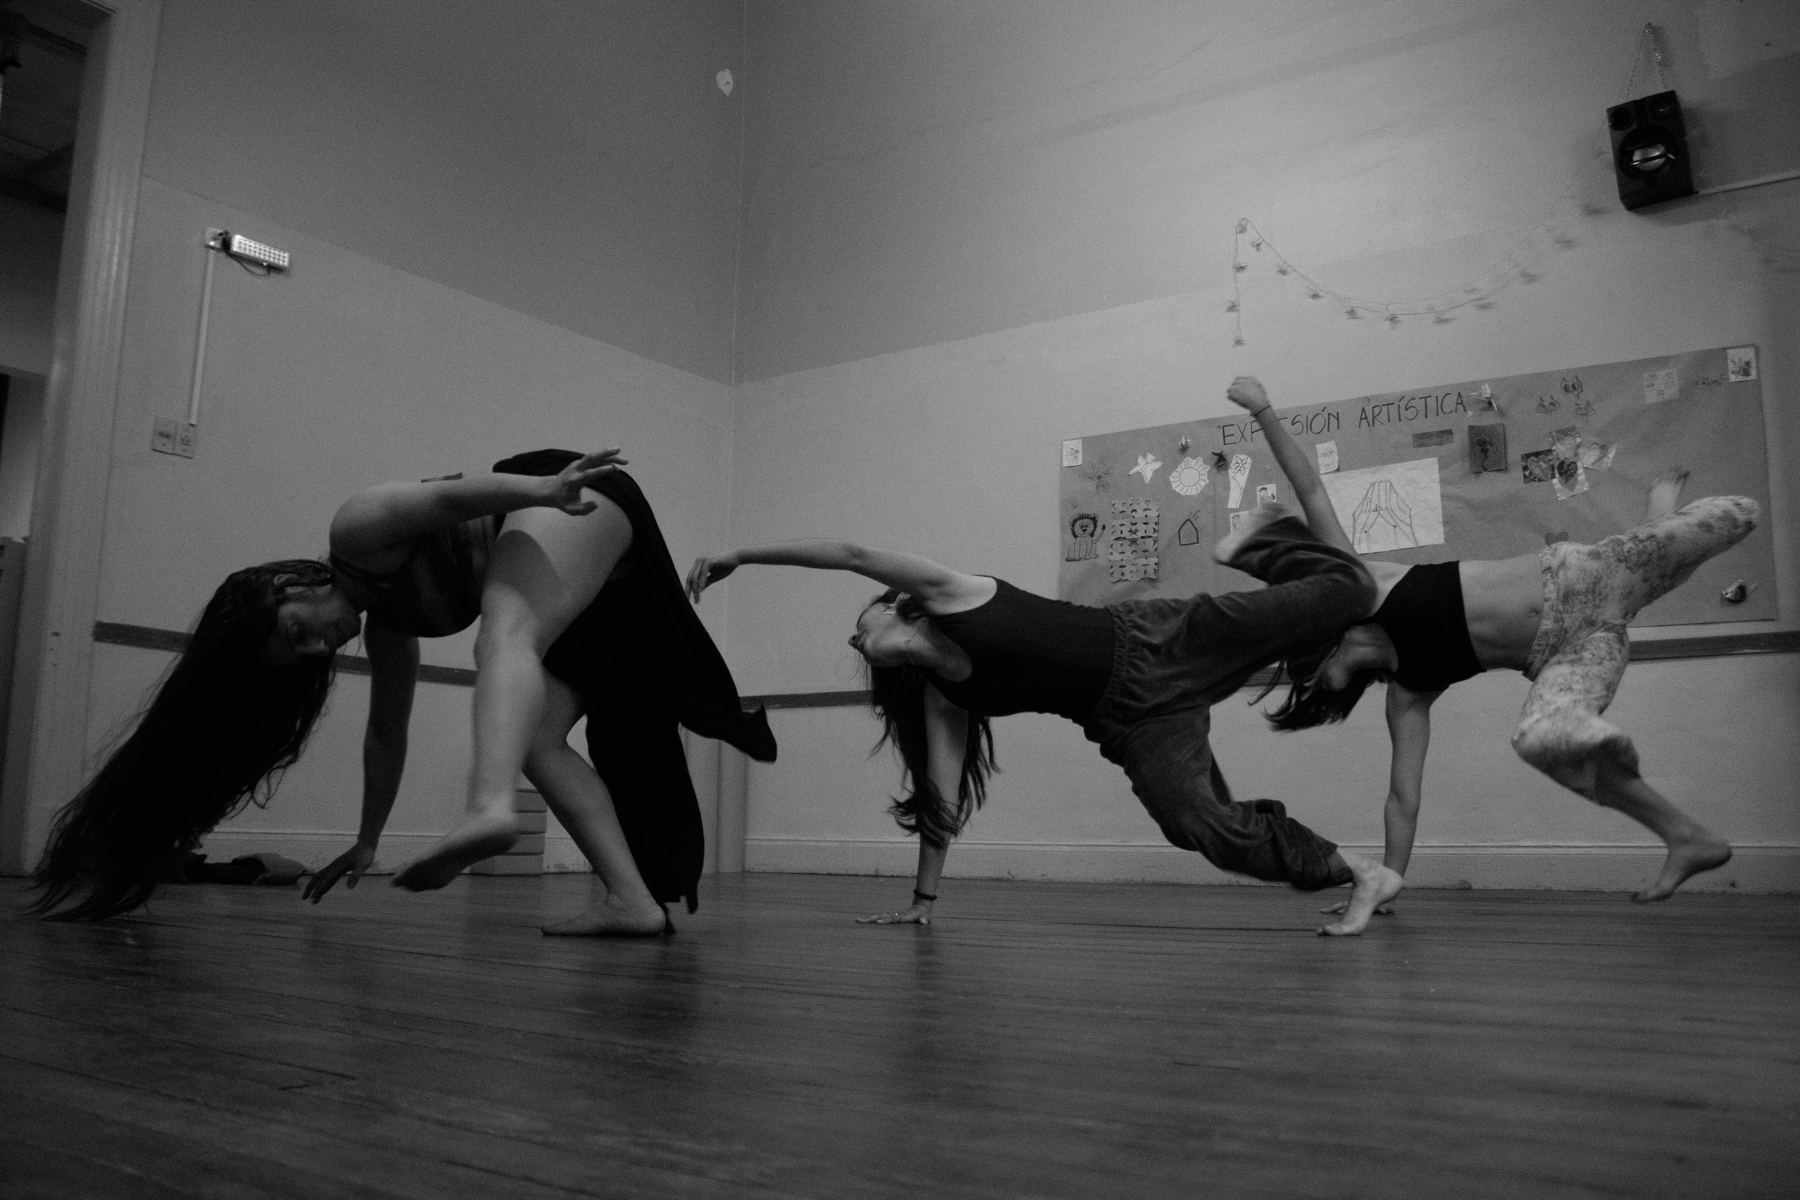
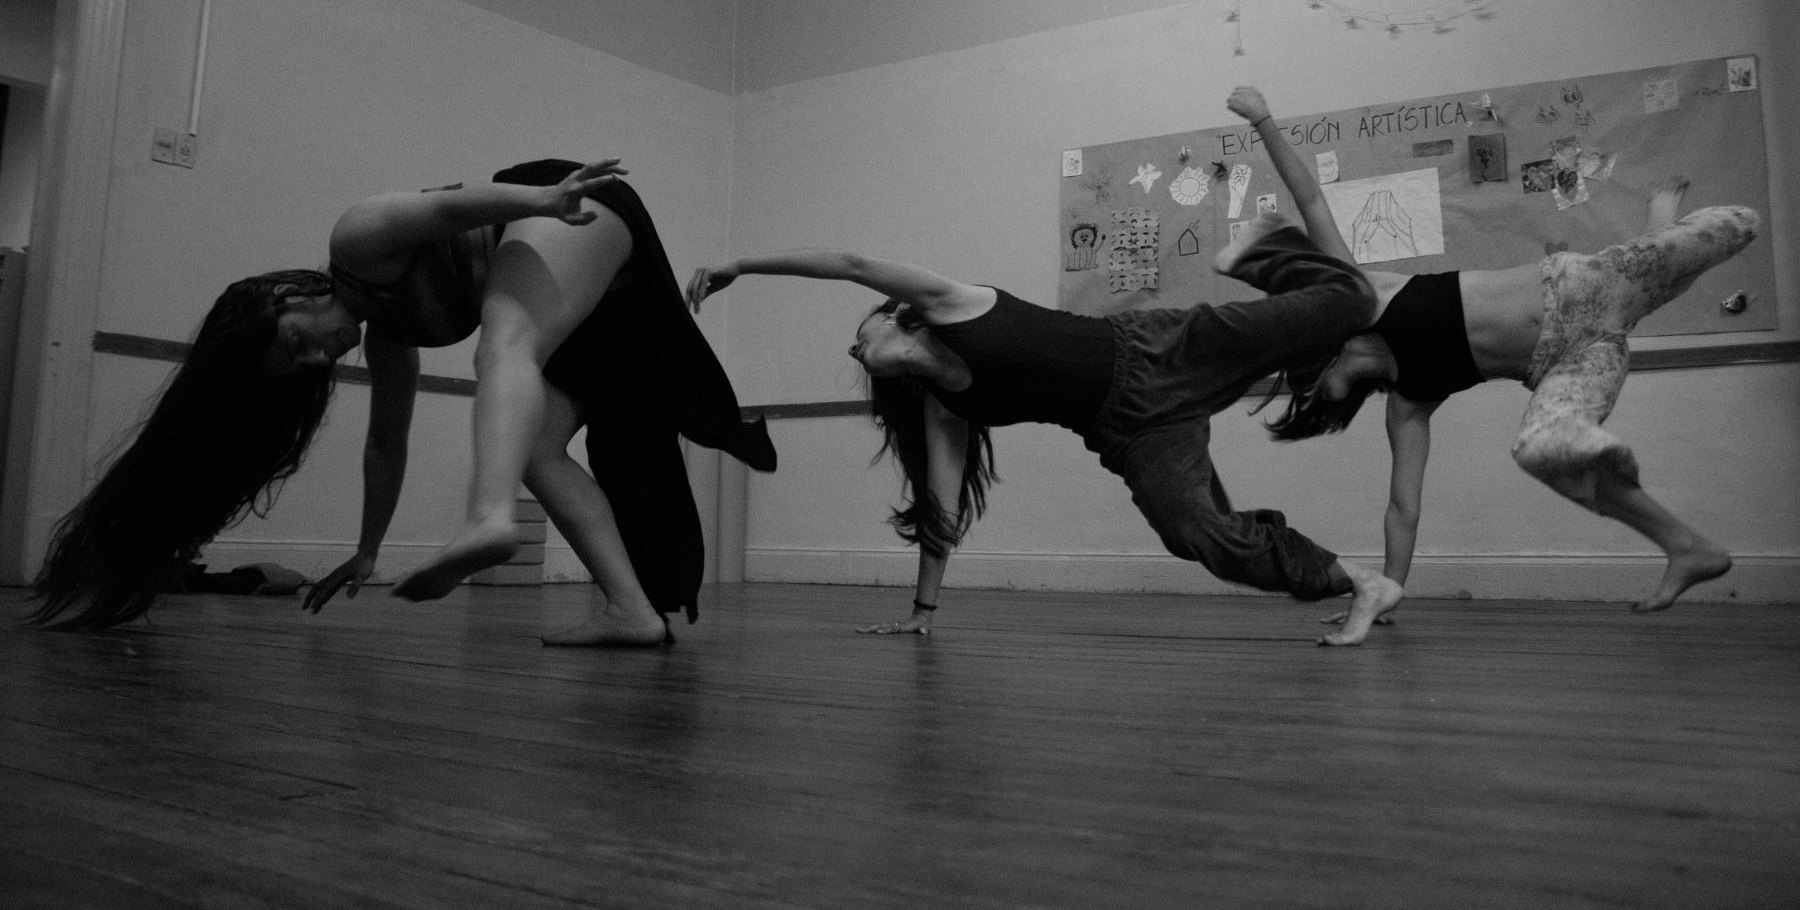
feat: update cover and practice photos, remove Danza duplicate, crop Danza wide photo

diff --git a/src/components/Hero.tsx b/src/components/Hero.tsx
@@ -3,12 +3,12 @@ import { Foto } from './Foto'
 
 const { hero } = contenido
 
-/** S1: tapa a sangre, logotipo y la invitación a recorrer. Sin botones ni contador (R7). */
+/** S1: foto a sangre, logotipo y la invitación a recorrer. Sin botones ni contador (R7). */
 export function Hero() {
-  const [tapa] = fotosDe('portada')
+  const [portada] = fotosDe('portada')
   return (
     <header className="hero">
-      <Foto foto={tapa} sizes="100vw" className="hero__foto" prioritaria />
+      <Foto foto={portada} sizes="(max-aspect-ratio: 3/2) 150vh, 100vw" className="hero__foto" prioritaria />
       <div className="hero__velo" />
       <div className="hero__arriba">
         <span>{hero.autora}</span>

diff --git a/src/components/Foto.tsx b/src/components/Foto.tsx
@@ -5,7 +5,7 @@ interface Props {
   /** Atributo `sizes` según el ancho que ocupa en pantalla. */
   sizes: string
   className?: string
-  /** Solo la tapa se carga sin esperar (§6.2). */
+  /** Solo la portada se carga sin esperar (§6.2). */
   prioritaria?: boolean
 }
 

diff --git a/src/styles/app.css b/src/styles/app.css
@@ -83,7 +83,6 @@ p {
 }
 
 .foto--ancha {
-  aspect-ratio: 3 / 2;
   margin-top: clamp(2.5rem, 6vw, 4.5rem);
 }
 

diff --git a/iterations/001-initial-site/spec.md b/iterations/001-initial-site/spec.md
@@ -47,11 +47,11 @@ botones (descarga, aporte, pedido por mail) están en el cierre (S8). El hero in
 
 | # | Sección | Contenido | Fuente |
 |---|---|---|---|
-| S1 | **Portada (hero)** | Foto de tapa a sangre · logotipo "MOVIMIENTO" (SVG) · "Libro de fotografías sobre prácticas corporales" · invitación a recorrer (R7). **Sin botones ni contador** | Foto de tapa del libro |
-| S2 | **Cita de apertura** | Te invito a sumergirte en estas páginas… | Texto definido para el sitio |
-| S3 | **I Contorsión** | Título espejado (R4), texto, cronología, foto ancha + grilla de 4 verticales | Texto: págs. 29–40 · Fotos: inéditas |
+| S1 | **Portada (hero)** | Foto inédita a sangre · logotipo "MOVIMIENTO" (SVG) · "Libro de fotografías sobre prácticas corporales" · invitación a recorrer (R7). **Sin botones ni contador** | Foto inédita |
+| S2 | **Cita de apertura** | Te invito a sumergirte en estas páginas… (fragmentos) | Pág. 7 |
+| S3 | **I Contorsión** | Título espejado (R4), texto, cronología, foto ancha + grilla de 4 verticales | Texto: págs. 29–40 · Fotos: inéditas + 1 del libro |
 | S4 | **II Acrobacia aérea** | Título espejado, texto, cronología, foto ancha + fila de 2 + grilla de 3 cuadradas | Texto: págs. 57–72 · Fotos: inéditas |
-| S5 | **III Danza** | Título espejado, texto, cronología, foto ancha + grilla de 3 cuadradas | Texto: págs. 91–102 · Fotos: 1 inédita + 3 del libro |
+| S5 | **III Danza** | Título espejado, texto, cronología, foto ancha + grilla de 3 cuadradas | Texto: págs. 91–102 · Fotos: 2 inéditas + 2 del libro |
 | S6 | **Protagonistas** | 10 retratos con nombre (D7) | Págs. 122–127 |
 | S7 | **La autora y créditos** | Retrato, bio factual, créditos, agradecimientos, memoria académica | Págs. 2, 122, 128 |
 | S7b | **Así es el libro** | 5 fotos del libro impreso (R9), sin botones | Fotos del libro impreso |
@@ -69,7 +69,7 @@ incluyen en el sitio.
 ┌──────────────────────────────┐
 │ BRISA JAZMÍN ARREGUI   2026  │
 │                              │
-│  [foto de tapa a sangre,     │
+│  [foto inédita a sangre,     │
 │   pantalla completa]         │
 │                              │
 │ MOVIMIENTO  (logotipo SVG)   │
@@ -119,7 +119,7 @@ incluyen en el sitio.
 ┌───────────────────────────────────────────────────────────┐
 │ BRISA JAZMÍN ARREGUI                      ARGENTINA · 2026 │
 │                                                           │
-│            [foto de tapa a sangre, ~880 px de alto]       │
+│            [foto inédita a sangre, ~880 px de alto]       │
 │                                                           │
 │ MOVIMIENTO  (logotipo SVG, casi todo el ancho)            │
 │ Libro de fotografías sobre prácticas corporales           │
@@ -385,19 +385,17 @@ aunque deje de contar (R1.5).
 
 ### 6.2 Fotografía
 
-- Todas las fotos en blanco y negro. Recortes: a sangre (3:2, proporción original), fila de 2 (3:2),
+- Todas las fotos en blanco y negro. Recortes: a sangre (3:2, proporción original; la de Danza, recortada arriba: casi 2:1), fila de 2 (3:2),
   cuadrado 1:1, vertical 0,66 y retrato 0,78.
 - Fuente preferida: archivos originales de los fotógrafos; alternativa: exportar desde el PDF.
 - El cierre (S8) usa de fondo una inédita: la practicante tendida en el piso, con un velo oscuro que
   se funde con el negro de la página arriba y abajo.
-- La portada usa la misma foto de tapa del libro. Contorsión y Acrobacia aérea usan fotos **inéditas** (que no están en el libro), elegidas por
+- La portada usa una foto inédita de danza (no la tapa del libro). Contorsión (salvo una) y Acrobacia aérea usan fotos **inéditas** (que no están en el libro), elegidas por
   su tono misterioso (rostros ocultos, sombras, fragmentos, movimiento) para invitar a descargar.
-  Danza usa una inédita como foto ancha y conserva tres del libro; Protagonistas sigue con fotos del libro.
-- La foto de tapa solo existe en el PDF a 945 px: se ve blanda a ancho completo en escritorio.
-  Pedir el archivo original (D11).
+  Danza usa dos inéditas (la foto ancha y una cuadrada) y conserva dos del libro; Protagonistas sigue con fotos del libro.
 - Originales en `assets/fotos/` hasta 1800 px de lado. El build genera AVIF con respaldo WebP en
   480 / 960 / 1600 px (`srcset`), ≤ 250 KB cada variante.
-- Todas con `width`/`height` declarados y `loading="lazy"` salvo la tapa.
+- Todas con `width`/`height` declarados y `loading="lazy"` salvo la portada.
 
 ### 6.3 Botón principal
 
@@ -475,7 +473,7 @@ Cada una tiene un valor por defecto; si nadie objeta, el spec avanza con ese val
 | D8 | ¿Hay URL pública de la memoria académica? | No se enlaza hasta tenerla | — |
 | D9 | ¿Versión en inglés? | No (fuera de alcance en `intent.md`) | El borrador "Suspensión" tenía selector ES/EN; se quitó |
 | D10 | Créditos de las fotos inéditas | Alejo Azzarini · Isabella Jubany | Confirmar autoría de cada inédita |
-| D11 | Foto de tapa en alta resolución | Se usa la del PDF (945 px) | Conseguir el original antes de publicar |
+| D11 | Foto de portada | **Decidido:** una inédita en alta resolución (reemplaza a la tapa de 945 px del PDF) | La imagen para compartir (R5) sigue usando la tapa |
 | D13 | Mail de contacto de Brisa | **Decidido:** cuenta creada solo para el libro; la dirección va partida en `contenido.json` (R6.3) | No se escribe entera en el repo |
 | D12 | ¿Quién entrega el PDF? | **Decidido:** el Worker, en streaming desde R2 (R1.3). Sin descargas reanudables: siempre envía el archivo completo | Descartado: redirigir a `r2.dev`. Era más simple, pero expone un enlace público que saltea el contador, y Cloudflare lo marca solo para desarrollo |
 | D14 | ¿Medio de pago para R2? | **Decidido:** se registra uno en Cloudflare. R2 no se activa sin tarjeta o PayPal; el uso queda dentro del límite gratuito, sin cargos | Descartado: servir el PDF como archivo de Pages (límite 25 MB por archivo), que cambiaba R1.3 y D12 |
